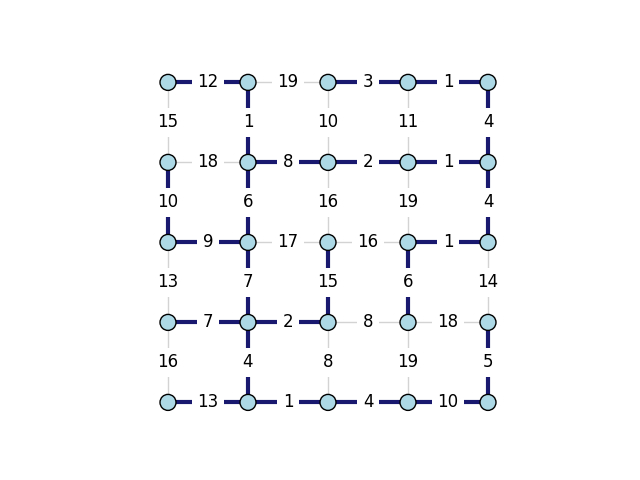
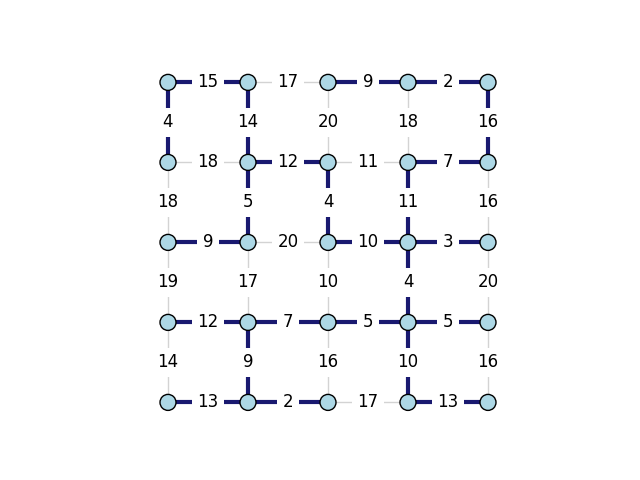
Remove numpy dependency

diff --git a/doc/source/tutorials/spanning_trees/assets/spanning_trees.py b/doc/source/tutorials/spanning_trees/assets/spanning_trees.py
@@ -1,15 +1,16 @@
 import igraph as ig
 import matplotlib.pyplot as plt
-import numpy as np
+import random
 
 g = ig.Graph.Lattice([6, 6], circular=False)
 
 # Optional: Rearrange the vertex ids to get a more interesting spanning tree
 layout = g.layout("grid")
 
-np.random.seed(0)
-permutation = np.random.permutation(36)
-g = g.permute_vertices(permutation.tolist())
+random.seed(0)
+permutation = list(range(g.vcount()))
+random.shuffle(permutation)
+g = g.permute_vertices(permutation)
 
 new_layout = g.layout("grid")
 for i in range(36):
@@ -34,5 +35,3 @@ ig.plot(
     edge_width=g.es["width"]
 )
 plt.show()
-
-

diff --git a/doc/source/tutorials/spanning_trees/spanning_trees.rst b/doc/source/tutorials/spanning_trees/spanning_trees.rst
@@ -17,7 +17,7 @@ First we create a 6 by 6 lattice graph.
     
     import igraph as ig
     import matplotlib.pyplot as plt
-    import numpy as np
+    import random
 
     g = ig.Graph.Lattice([6, 6], circular=False)
 
@@ -31,9 +31,10 @@ As an optional step, we randomly rearrange some of the vertex IDs with |permute_
     # Optional: Rearrange the vertex ids to get a more interesting spanning tree
     layout = g.layout("grid")
 
-    np.random.seed(0)
-    permutation = np.random.permutation(36)
-    g = g.permute_vertices(permutation.tolist())
+    random.seed(0)
+    permutation = list(range(g.vcount()))
+    random.shuffle(permutation)
+    g = g.permute_vertices(permutation)
 
     # Calculate the new layout coordinates based on the permutation
     new_layout = g.layout("grid")

diff --git a/doc/source/tutorials/minimum_spanning_trees/minimum_spanning_trees.rst b/doc/source/tutorials/minimum_spanning_trees/minimum_spanning_trees.rst
@@ -17,13 +17,13 @@ We start by generating a grid graph with random weights
     
     import igraph as ig
     import matplotlib.pyplot as plt
-    import numpy as np
+    import random
 
     # Generate grid graph with random weights
-    np.random.seed(0)
+    random.seed(0)
 
     g = ig.Graph.Lattice([5, 5], circular=False)
-    g.es["weight"] = np.random.randint(1, 20, g.ecount()).tolist()
+    g.es["weight"] = [random.randint(1, 20) for _ in g.es]
 
 We then call |spanning_tree|_, making sure to pass in the randomly generated weights.
 
